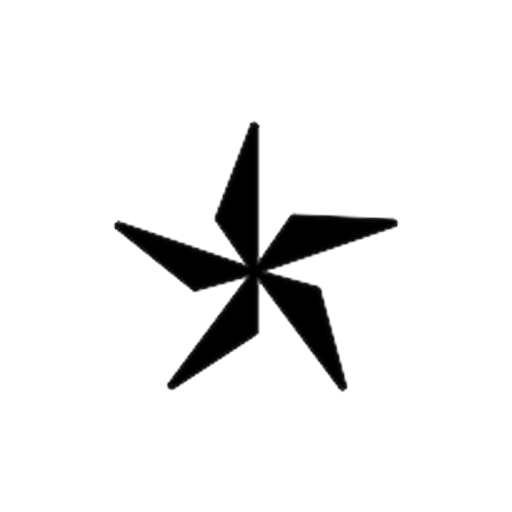
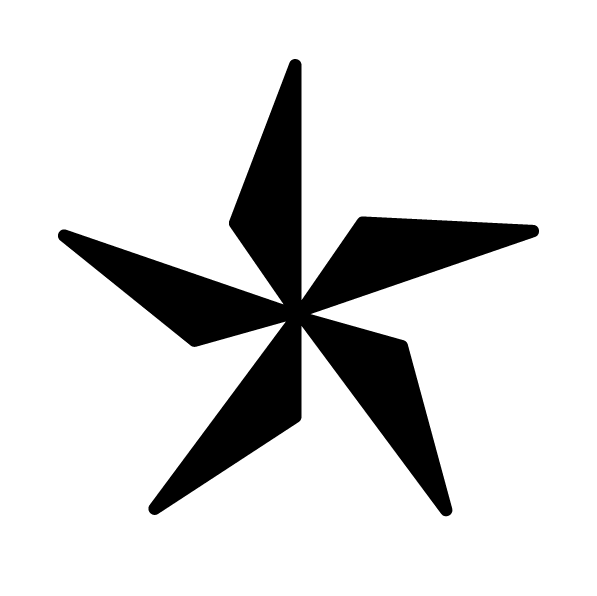
sidebar menu upgrade

diff --git a/components/Navbar.tsx b/components/Navbar.tsx
@@ -26,90 +26,135 @@ export default function Navbar() {
     return () => window.removeEventListener("scroll", onScroll);
   }, []);
 
+  useEffect(() => {
+    if (!open) return;
+
+    document.body.style.overflow = "hidden";
+    const onKeyDown = (e: KeyboardEvent) => {
+      if (e.key === "Escape") setOpen(false);
+    };
+    window.addEventListener("keydown", onKeyDown);
+
+    return () => {
+      document.body.style.overflow = "";
+      window.removeEventListener("keydown", onKeyDown);
+    };
+  }, [open]);
+
   return (
-    <header
-      className={`fixed inset-x-0 top-0 z-50 transition-colors duration-300 ${
-        solid
-          ? "bg-white/95 backdrop-blur-sm shadow-sm"
-          : "bg-gradient-to-b from-black/50 to-transparent"
-      }`}
-    >
-      <div className="container-page flex items-center justify-between py-4">
-        <Link href="/" className="flex items-center">
+    <>
+      <header
+        className={`fixed inset-x-0 top-0 z-50 transition-colors duration-300 ${
+          solid
+            ? "bg-white/95 backdrop-blur-sm shadow-sm"
+            : "bg-gradient-to-b from-black/50 to-transparent"
+        }`}
+      >
+        <div className="container-page flex items-center justify-between py-4">
+          <Link href="/" className="flex items-center">
+            <Image
+              src={solid ? "/logo/navbar-logo-black.png" : "/logo/navbar-logo-white.png"}
+              alt="Mesby İnşaat"
+              width={409}
+              height={66}
+              className="h-8 w-auto sm:h-9"
+              priority
+            />
+          </Link>
+
+          <nav className="hidden items-center gap-8 lg:flex">
+            {NAV_LINKS.map((link) => (
+              <Link
+                key={link.href}
+                href={link.href}
+                className={`text-sm font-medium tracking-wide transition-colors ${
+                  pathname === link.href
+                    ? solid
+                      ? "text-neutral-950"
+                      : "text-white"
+                    : solid
+                    ? "text-neutral-500 hover:text-neutral-950"
+                    : "text-white/75 hover:text-white"
+                }`}
+              >
+                {link.label}
+              </Link>
+            ))}
+            <Link
+              href="/iletisim"
+              className={`rounded-full px-5 py-2 text-sm font-semibold transition-colors ${
+                solid
+                  ? "bg-neutral-950 text-white hover:bg-neutral-800"
+                  : "bg-white text-neutral-950 hover:bg-neutral-200"
+              }`}
+            >
+              İletişim
+            </Link>
+          </nav>
+
+          <button
+            type="button"
+            aria-label="Menüyü aç"
+            onClick={() => setOpen((v) => !v)}
+            className={`flex h-10 w-10 flex-col items-center justify-center gap-1.5 lg:hidden ${
+              solid ? "text-neutral-950" : "text-white"
+            }`}
+          >
+            <span
+              className={`h-0.5 w-6 bg-current transition-transform ${
+                open ? "translate-y-2 rotate-45" : ""
+              }`}
+            />
+            <span
+              className={`h-0.5 w-6 bg-current transition-opacity ${
+                open ? "opacity-0" : ""
+              }`}
+            />
+            <span
+              className={`h-0.5 w-6 bg-current transition-transform ${
+                open ? "-translate-y-2 -rotate-45" : ""
+              }`}
+            />
+          </button>
+        </div>
+      </header>
+
+      <aside
+        role="dialog"
+        aria-modal="true"
+        aria-label="Mobil menü"
+        className={`fixed inset-0 z-50 flex w-full flex-col bg-white shadow-2xl transition-transform duration-300 ease-out lg:hidden ${
+          open ? "translate-x-0" : "translate-x-full"
+        }`}
+      >
+        <div className="flex items-center justify-between border-b border-neutral-100 px-6 py-4">
           <Image
-            src={solid ? "/logo/navbar-logo-black.png" : "/logo/navbar-logo-white.png"}
+            src="/logo/navbar-logo-black.png"
             alt="Mesby İnşaat"
             width={409}
             height={66}
-            className="h-8 w-auto sm:h-9"
-            priority
+            className="h-7 w-auto"
           />
-        </Link>
-
-        <nav className="hidden items-center gap-8 lg:flex">
-          {NAV_LINKS.map((link) => (
-            <Link
-              key={link.href}
-              href={link.href}
-              className={`text-sm font-medium tracking-wide transition-colors ${
-                pathname === link.href
-                  ? solid
-                    ? "text-neutral-950"
-                    : "text-white"
-                  : solid
-                  ? "text-neutral-500 hover:text-neutral-950"
-                  : "text-white/75 hover:text-white"
-              }`}
-            >
-              {link.label}
-            </Link>
-          ))}
-          <Link
-            href="/iletisim"
-            className={`rounded-full px-5 py-2 text-sm font-semibold transition-colors ${
-              solid
-                ? "bg-neutral-950 text-white hover:bg-neutral-800"
-                : "bg-white text-neutral-950 hover:bg-neutral-200"
-            }`}
+          <button
+            type="button"
+            aria-label="Menüyü kapat"
+            onClick={() => setOpen(false)}
+            className="flex h-10 w-10 items-center justify-center text-neutral-950"
           >
-            İletişim
-          </Link>
-        </nav>
+            <span className="relative block h-5 w-5">
+              <span className="absolute top-1/2 left-0 h-0.5 w-5 -translate-y-1/2 rotate-45 bg-current" />
+              <span className="absolute top-1/2 left-0 h-0.5 w-5 -translate-y-1/2 -rotate-45 bg-current" />
+            </span>
+          </button>
+        </div>
 
-        <button
-          type="button"
-          aria-label="Menüyü aç"
-          onClick={() => setOpen((v) => !v)}
-          className={`flex h-10 w-10 flex-col items-center justify-center gap-1.5 lg:hidden ${
-            solid ? "text-neutral-950" : "text-white"
-          }`}
-        >
-          <span
-            className={`h-0.5 w-6 bg-current transition-transform ${
-              open ? "translate-y-2 rotate-45" : ""
-            }`}
-          />
-          <span
-            className={`h-0.5 w-6 bg-current transition-opacity ${
-              open ? "opacity-0" : ""
-            }`}
-          />
-          <span
-            className={`h-0.5 w-6 bg-current transition-transform ${
-              open ? "-translate-y-2 -rotate-45" : ""
-            }`}
-          />
-        </button>
-      </div>
-
-      {open && (
-        <nav className="flex flex-col border-t border-neutral-200 bg-white px-6 py-4 lg:hidden">
+        <nav className="flex flex-1 flex-col overflow-y-auto px-6 py-4">
           {NAV_LINKS.map((link) => (
             <Link
               key={link.href}
               href={link.href}
               onClick={() => setOpen(false)}
-              className={`border-b border-neutral-100 py-3 text-sm font-medium ${
+              className={`border-b border-neutral-100 py-4 text-base font-medium ${
                 pathname === link.href ? "text-neutral-950" : "text-neutral-500"
               }`}
             >
@@ -119,12 +164,16 @@ export default function Navbar() {
           <Link
             href="/iletisim"
             onClick={() => setOpen(false)}
-            className="mt-4 rounded-full bg-neutral-950 px-5 py-2.5 text-center text-sm font-semibold text-white"
+            className={`mt-6 rounded-full px-5 py-3 text-center text-sm font-semibold ${
+              pathname === "/iletisim"
+                ? "bg-neutral-800 text-white"
+                : "bg-neutral-950 text-white"
+            }`}
           >
             İletişim
           </Link>
         </nav>
-      )}
-    </header>
+      </aside>
+    </>
   );
 }